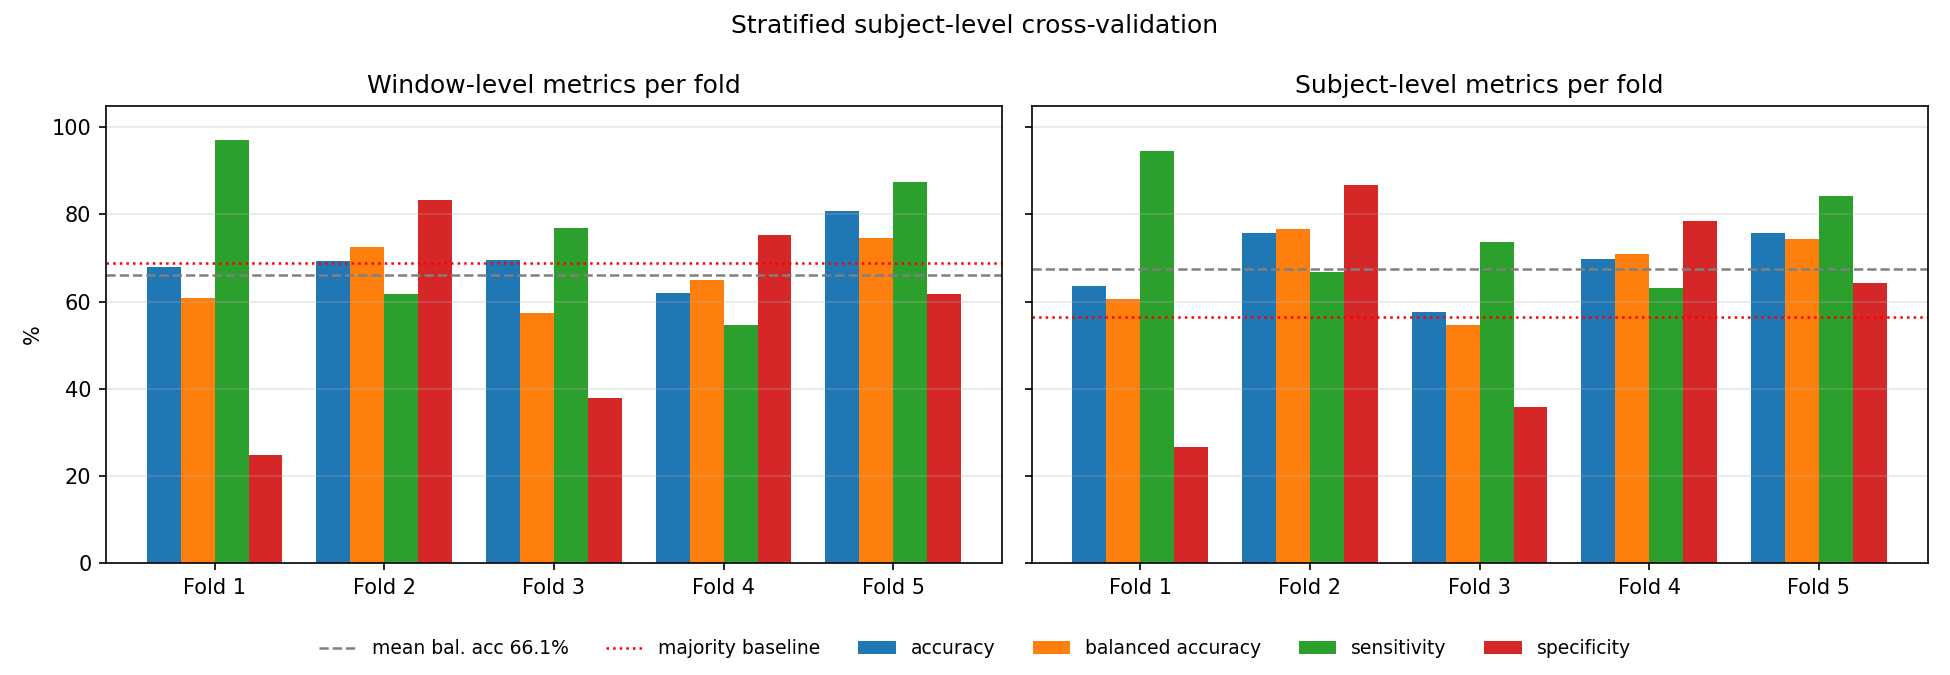
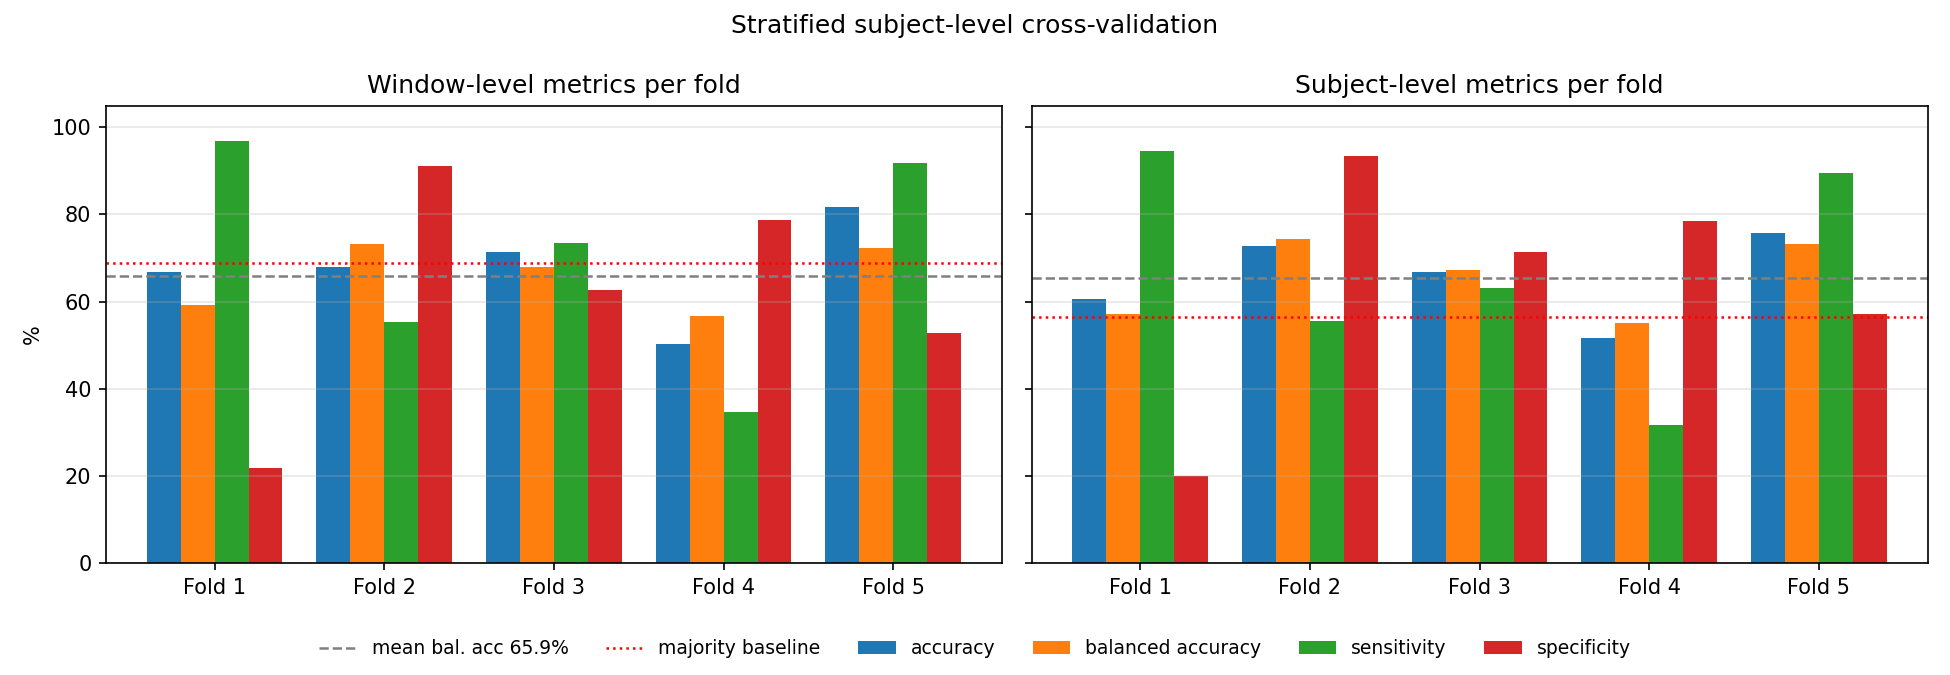
docs: update README with final Kaggle results (MSCAF 65.28%, gait-feature models, fusion, robustness)

diff --git a/README.md b/README.md
@@ -197,6 +197,18 @@ python evaluate.py --checkpoint ./checkpoints_pd/best_model_pd.pth \
 ```
 When `use_cv` is `True`, the headline numbers are the cross-validation results in `results_pd/cv_results.json`, not this script's output.
 
+### 6. Post-hoc analyses (gait features, leakage, explainability, cross-study)
+Run after `main.py`, in this order (each is a standalone script, ~seconds on CPU except occlusion, which uses the GPU):
+```bash
+python gait_features.py    # stride/swing/stance/cadence/asymmetry features, RF + XGBoost, late fusion with MSCAF
+python leakage_demo.py     # random window-level split vs subject-level split
+python explain.py          # out-of-fold SHAP (features) + sensor-occlusion foot heatmap (MSCAF)
+python cross_study.py      # leave-one-study-out (Ga / Ju / Si)
+python results_summary.py  # slide-ready table: results_summary.md / .csv / .png
+streamlit run app.py       # optional demo: upload a trial, get P(PD), features, foot heatmap
+```
+All of them reuse `load_subject_info()` and the **same folds** as `main.py` (`make_cv_folds`, same seed); shared code is in `gait_common.py`. Outputs go to `/kaggle/working/results_new/` on Kaggle, `./results_new/` elsewhere. Fusion needs MSCAF's out-of-fold probabilities: `main.py` now saves them (`prob_pd` in `cv_results.json`); for an older run they are recomputed from `checkpoints_pd/best_model_pd_fold*.pth` without retraining.
+
 ---
 
 ## 📁 Project Structure
@@ -205,12 +217,19 @@ When `use_cv` is `True`, the headline numbers are the cross-validation results i
 Foot-Pressure-Based-Abnormal-Gait-Recognition/
 ├── main.py           ← Model, dataset loader, training, cross-validation
 ├── evaluate.py       ← Standalone evaluation of a single-split checkpoint
+├── gait_common.py    ← Shared: paths, main.py folds, gait-event detection, features
+├── gait_features.py  ← Gait-feature models + late fusion with MSCAF
+├── leakage_demo.py   ← Window-level vs subject-level split
+├── explain.py        ← SHAP + sensor occlusion
+├── cross_study.py    ← Leave-one-study-out
+├── results_summary.py← Slide-ready summary table
+├── app.py            ← Streamlit demo
 ├── requirements.txt
 ├── README.md
 └── cv_summary.png    ← Cross-validation results plot
 ```
 
-Generated at run time (not tracked): `results_pd/`, `checkpoints_pd/`.
+Generated at run time (not tracked): `results_pd/`, `checkpoints_pd/`, `results_new/`.
 
 ---
 
@@ -240,22 +259,23 @@ Every metric is reported at two levels:
 - The **test fold is scored exactly once**, after restoring that fold's best-validation checkpoint.
 - The loss is **class-weighted CrossEntropy**, with inverse-frequency weights computed from **each fold's training windows only**.
 
-### Headline result
+### Headline result — MSCAF-Gait
 
 Pooled out-of-fold, **subject level**, 165 subjects, one prediction each:
 
 | Metric | Value |
 |---|---|
-| **Balanced accuracy** | **67.34%** |
-| Accuracy | 68.48% |
-| Sensitivity (PD correctly identified) | 76.34% |
-| Specificity (Healthy correctly identified) | 58.33% |
+| **Balanced accuracy** | **65.28%** |
+| Accuracy | 65.45% |
+| Sensitivity (PD correctly identified) | 66.67% |
+| Specificity (Healthy correctly identified) | 63.89% |
+| ROC-AUC (mean window probability) | 0.728 |
 | Majority-class baseline | 56.36% |
 
 | | Predicted Healthy | Predicted PD |
 |---|---|---|
-| **Actual Healthy** (72) | 42 | 30 |
-| **Actual PD** (93) | 22 | 71 |
+| **Actual Healthy** (72) | 46 | 26 |
+| **Actual PD** (93) | 31 | 62 |
 
 Because each subject is held out exactly once, this is a single number over the whole cohort rather than an average of five fold-sized estimates.
 
@@ -265,31 +285,68 @@ Because each subject is held out exactly once, this is a single number over the 
 
 | Metric | Mean ± Std |
 |---|---|
-| Accuracy | 69.92 ± 6.10% |
-| Balanced accuracy | 66.05 ± 6.62% |
-| Sensitivity | 75.54 ± 15.73% |
-| Specificity | 56.56 ± 22.19% |
-| ROC-AUC | 0.7853 ± 0.0696 |
+| Accuracy | 67.59 ± 10.13% |
+| Balanced accuracy | 65.87 ± 6.76% |
+| Sensitivity | 70.38 ± 23.17% |
+| Specificity | 61.35 ± 23.80% |
+| ROC-AUC | 0.7866 ± 0.0665 |
 | Majority baseline | 68.73 ± 7.68% |
 
 **Subject level**, mean ± std over the 5 folds:
 
 | Metric | Mean ± Std |
 |---|---|
-| Accuracy | 68.48 ± 7.07% |
-| Balanced accuracy | 67.41 ± 8.40% |
-| Sensitivity | 76.43 ± 11.52% |
-| Specificity | 58.38 ± 23.50% |
+| Accuracy | 65.45 ± 8.70% |
+| Balanced accuracy | 65.47 ± 8.02% |
+| Sensitivity | 66.84 ± 23.06% |
+| Specificity | 64.10 ± 24.94% |
+| ROC-AUC | 0.7963 ± 0.0551 |
 
 ![Cross-validation summary](cv_summary.png)
 
-> Performance varies considerably across folds — specificity swings by roughly ±22% — which is exactly why cross-validation is reported here instead of a single split.
+> Performance varies considerably across folds — sensitivity and specificity each swing by roughly ±23–25% — which is exactly why cross-validation is reported here instead of a single split.
+
+### Interpretable gait features and late fusion
+
+`gait_features.py` detects heel strikes and toe-offs from the two total-force columns and computes 13 gait features per subject (stride time and its variability, swing / stance / double-support %, cadence, L/R asymmetry, peak forces). Random Forest and XGBoost are trained on them under **the same 5-fold subject-level folds** as MSCAF-Gait, with fixed (untuned) hyper-parameters. Late fusion averages the two models' out-of-fold P(PD) with fixed equal weights.
+
+Pooled out-of-fold, subject level, 165 subjects:
+
+| Model | Balanced acc. | Sensitivity | Specificity | ROC-AUC |
+|---|---|---|---|---|
+| Majority-class baseline | 50.00% | — | — | 0.500 |
+| MSCAF-Gait (deep, raw 16 sensors) | 65.28% | 66.67% | 63.89% | 0.728 |
+| Random Forest (13 gait features) | 75.20% | 79.57% | 70.83% | 0.842 |
+| **XGBoost (13 gait features)** | **78.36%** | **81.72%** | **75.00%** | **0.860** |
+| MSCAF + Random Forest (late fusion) | 71.12% | 74.19% | 68.06% | 0.813 |
+| MSCAF + XGBoost (late fusion) | 74.82% | 77.42% | 72.22% | 0.830 |
+
+The 13 hand-crafted gait features outperform the deep model by about 13 balanced-accuracy points, and equal-weight late fusion **does not** improve on XGBoost alone: averaging in the weaker MSCAF probability pulls the stronger model down.
+
+### Robustness and explainability
+
+**Data leakage** (`leakage_demo.py`, XGBoost, 6,185 windows): a random window-level split scores **86.96%** balanced accuracy (AUC 0.945) versus **67.76%** (AUC 0.733) with a subject-level split — **+19.2 points** of inflation from letting the same person's windows appear in both train and test.
+
+**Cross-study generalisation** (`cross_study.py`, XGBoost, leave-one-study-out):
+
+| Held-out study | Balanced acc. | Sensitivity | Specificity | ROC-AUC |
+|---|---|---|---|---|
+| Ga | 77.11% | 93.10% | 61.11% | 0.822 |
+| Ju | 73.66% | 79.31% | 68.00% | 0.828 |
+| Si | 74.83% | 60.00% | 89.66% | 0.828 |
+| **Mean** | **75.20%** | 77.47% | 72.92% | 0.826 |
+
+Performance on a study never seen in training stays close to the pooled CV figure, so the feature model is not merely learning each lab's protocol — although the decision threshold shifts between studies (sensitivity vs. specificity trade off differently on Ga and Si).
+
+**What the models look at** (`explain.py`): the top gait features by mean |SHAP| are swing asymmetry, swing-time variability (CV) and double-support time — established clinical markers of Parkinsonian gait. Sensor occlusion on MSCAF-Gait ranks L3, R5, L8 and L5 as the most influential sensors.
+
+All figures and JSON metrics are written to `results_new/` (see *Post-hoc analyses* above).
 
 ### Clinical reading
 
-**Sensitivity** is the metric that tracks missed PD cases: at 76.34%, **22 of 93 PD subjects were not flagged**. Missing a PD diagnosis is generally more harmful than a false alarm, so sensitivity is the number to improve first. Specificity of 58.33% means 30 of 72 healthy subjects were incorrectly flagged as PD.
+**Sensitivity** is the metric that tracks missed PD cases: MSCAF-Gait reaches 66.67%, so **31 of 93 PD subjects were not flagged**, and 26 of 72 healthy subjects were incorrectly flagged as PD (specificity 63.89%). The gait-feature XGBoost model misses fewer PD subjects (sensitivity 81.72%) while also raising fewer false alarms (specificity 75.00%).
 
-Balanced accuracy (67.34%) clears the majority-class baseline (56.36%) by about 11 points, so the model has learned something beyond the class prior — but the margin is modest and the fold-to-fold variance is large. These results are **not clinically usable** and are reported as a research baseline.
+MSCAF-Gait's balanced accuracy (65.28%) clears the majority-class baseline (56.36%) by about 9 points, so the model has learned something beyond the class prior — but the margin is modest and the fold-to-fold variance is large. None of these results are **clinically usable**; they are reported as a research baseline.
 
 ---
 
@@ -320,13 +377,14 @@ Several evaluation flaws in earlier versions of this project inflated the report
 
 ## 🧪 Future Work
 
-- [ ] Improve sensitivity — 22 of 93 PD subjects are currently missed
+- [ ] Improve MSCAF-Gait sensitivity — 31 of 93 PD subjects are currently missed
 - [ ] Reduce fold-to-fold variance (stronger regularization, more aggressive augmentation)
 - [ ] Transformer-based temporal modeling (ViT / Temporal Transformer)
 - [ ] Real-time gait inference pipeline
 - [ ] Wearable/IoT deployment (edge inference)
 - [ ] Generalization across multiple gait datasets
-- [ ] Explainability module (GradCAM for temporal attention visualization)
+- [x] Explainability — SHAP for the gait-feature model, sensor occlusion for MSCAF-Gait (`explain.py`)
+- [ ] GradCAM for temporal attention visualization
 
 ---
 
